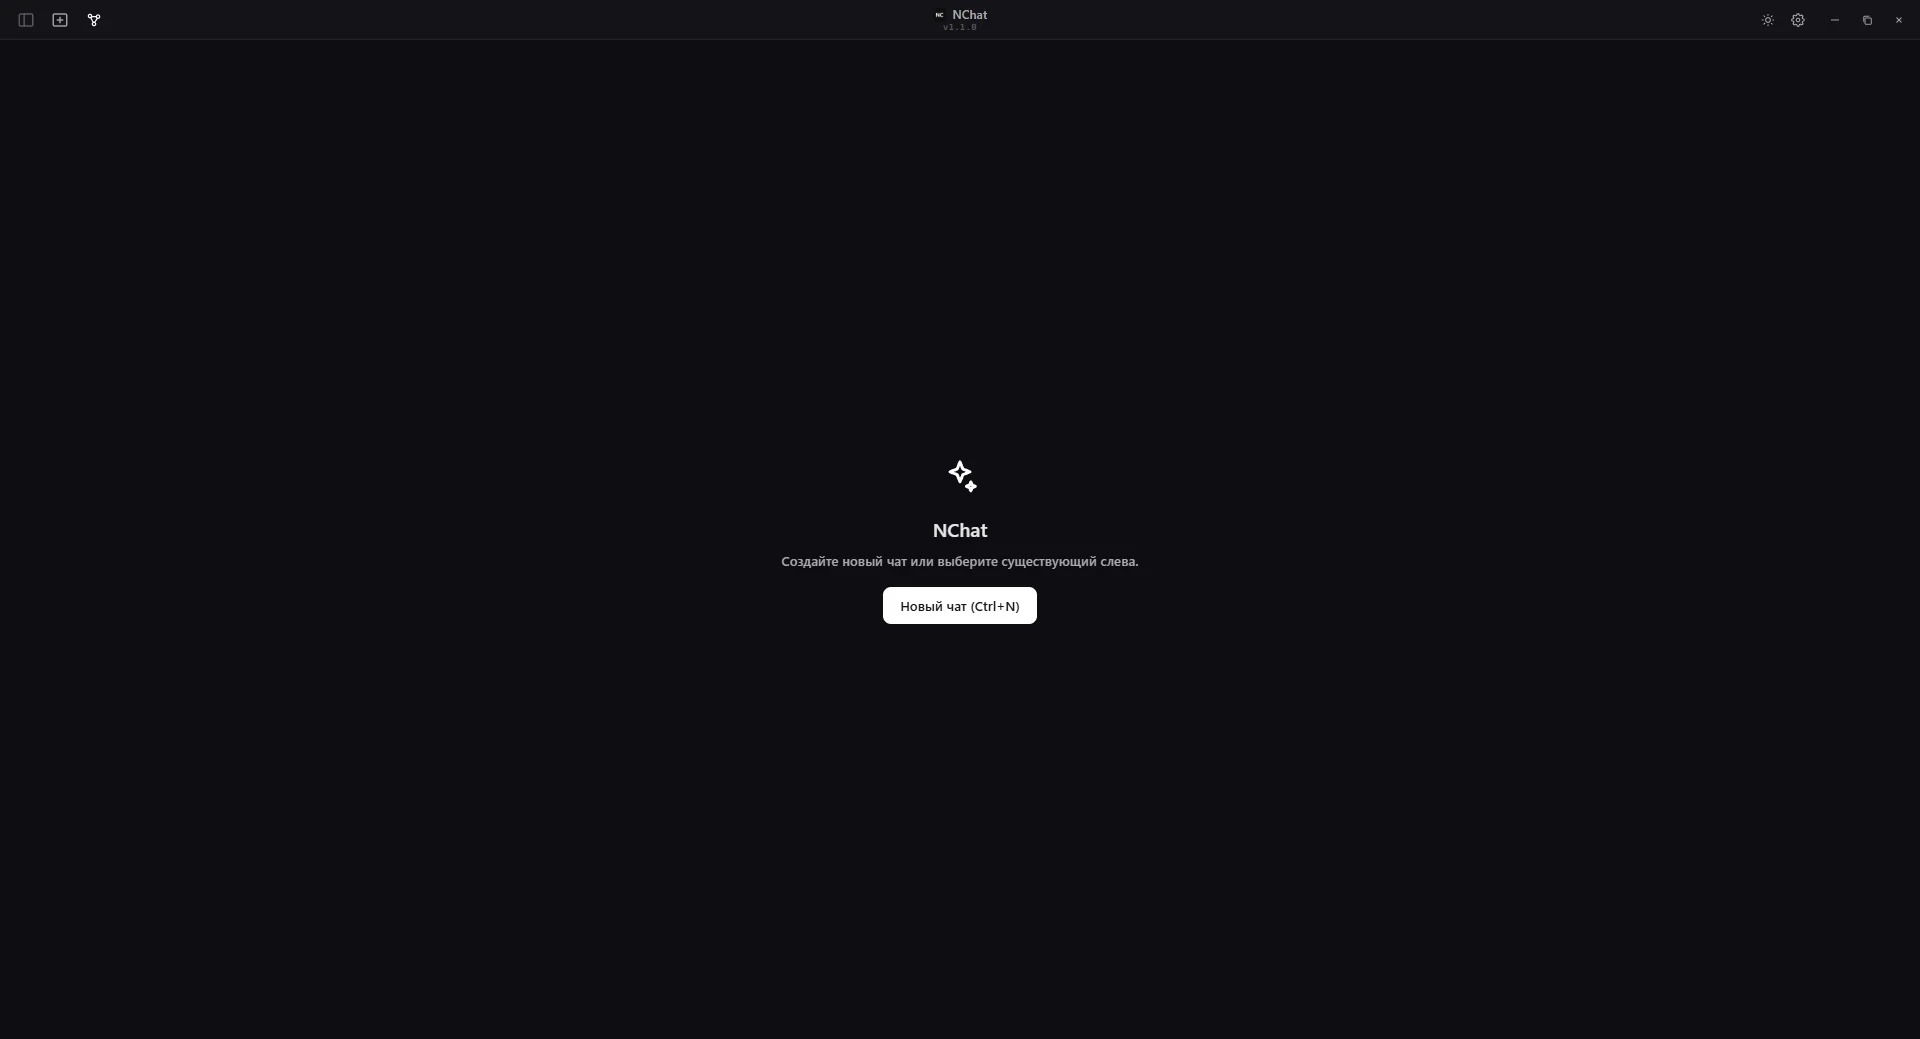
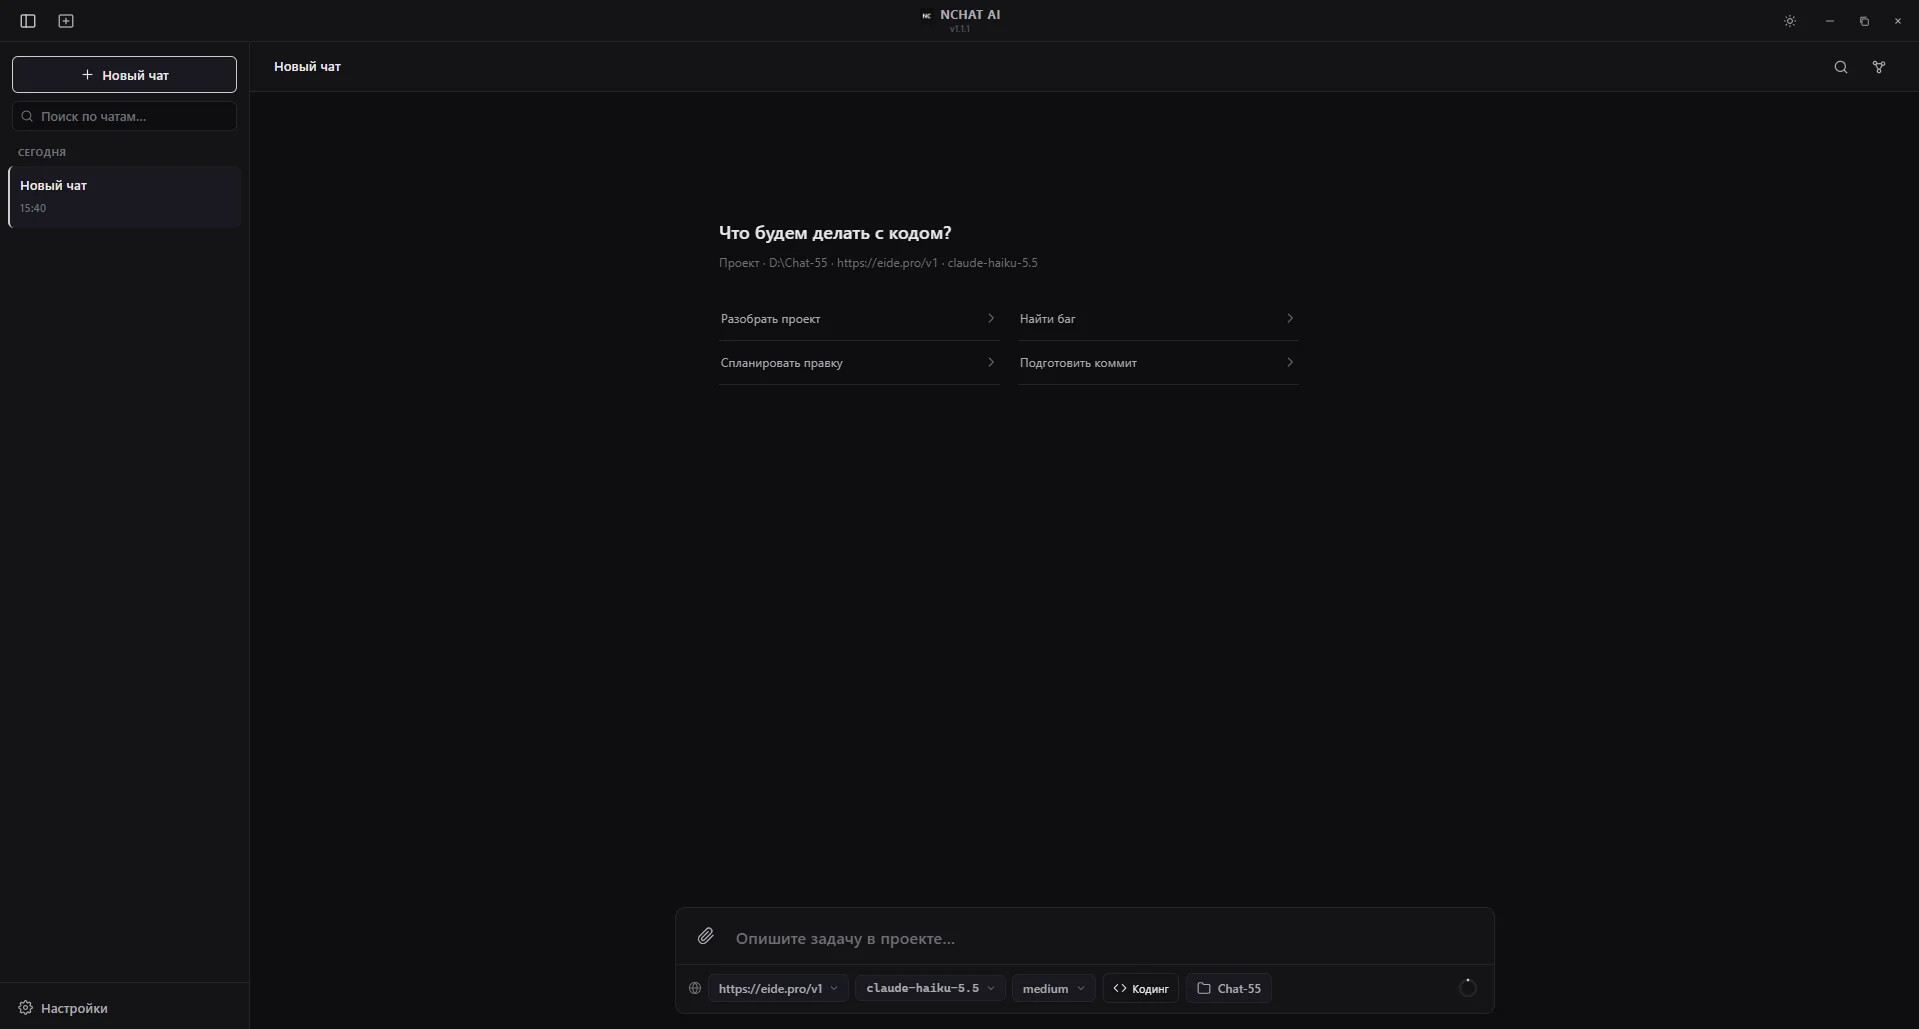
Новый скриншот главного окна (main.jpg, v=111)

diff --git a/index.html b/index.html
@@ -17,11 +17,11 @@
   <meta property="og:title" content="NChat AI — ИИ-чат для Windows с доступом к файлам, git и MCP" />
   <meta property="og:description" content="Бесплатное приложение для Windows: файлы, оболочка, git, MCP-серверы и параллельные чаты с языковыми моделями в одном окне." />
   <meta property="og:url" content="https://uzuqween.github.io/nchat-site/" />
-  <meta property="og:image" content="https://uzuqween.github.io/nchat-site/assets/main.jpg?v=110" />
+  <meta property="og:image" content="https://uzuqween.github.io/nchat-site/assets/main.jpg?v=111" />
   <meta property="og:locale" content="ru_RU" />
   <meta name="twitter:card" content="summary_large_image" />
   <script type="application/ld+json">
-  {"@context":"https://schema.org","@type":"SoftwareApplication","name":"NChat","alternateName":["NChat AI","NeuralChat"],"downloadUrl":"https://github.com/uzuqween/nchat-site/releases/latest/download/NChat.exe","sameAs":["https://github.com/uzuqween/nchat-site","https://t.me/NChat_AI"],"operatingSystem":"Windows","applicationCategory":"DeveloperApplication","inLanguage":["ru","en"],"isAccessibleForFree":true,"description":"Настольный ИИ-чат: файлы, оболочка, git, MCP-серверы и параллельные чаты в одном окне.","url":"https://uzuqween.github.io/nchat-site/","image":"https://uzuqween.github.io/nchat-site/assets/main.jpg?v=110","offers":{"@type":"Offer","price":"0","priceCurrency":"RUB"}}
+  {"@context":"https://schema.org","@type":"SoftwareApplication","name":"NChat","alternateName":["NChat AI","NeuralChat"],"downloadUrl":"https://github.com/uzuqween/nchat-site/releases/latest/download/NChat.exe","sameAs":["https://github.com/uzuqween/nchat-site","https://t.me/NChat_AI"],"operatingSystem":"Windows","applicationCategory":"DeveloperApplication","inLanguage":["ru","en"],"isAccessibleForFree":true,"description":"Настольный ИИ-чат: файлы, оболочка, git, MCP-серверы и параллельные чаты в одном окне.","url":"https://uzuqween.github.io/nchat-site/","image":"https://uzuqween.github.io/nchat-site/assets/main.jpg?v=111","offers":{"@type":"Offer","price":"0","priceCurrency":"RUB"}}
   </script>
   <script type="application/ld+json">
   {"@context":"https://schema.org","@type":"WebSite","name":"NChat","alternateName":["NChat AI","NeuralChat","NChat (NeuralChat)"],"url":"https://uzuqween.github.io/nchat-site/"}
@@ -85,7 +85,7 @@
         </div>
 
         <div class="hero-preview" id="hero-preview">
-          <img src="assets/main.jpg?v=110" alt="Главное окно NChat" loading="lazy" />
+          <img src="assets/main.jpg?v=111" alt="Главное окно NChat" loading="lazy" />
         </div>
       </div>
     </section>

diff --git a/en/index.html b/en/index.html
@@ -16,11 +16,11 @@
   <meta property="og:title" content="NChat AI — free AI chat for Windows with file, shell, git and MCP access" />
   <meta property="og:description" content="Free portable Windows app: files, shell, git, MCP servers and parallel chats with language models in one window." />
   <meta property="og:url" content="https://uzuqween.github.io/nchat-site/en/" />
-  <meta property="og:image" content="https://uzuqween.github.io/nchat-site/assets/main.jpg?v=110" />
+  <meta property="og:image" content="https://uzuqween.github.io/nchat-site/assets/main.jpg?v=111" />
   <meta property="og:locale" content="en_US" />
   <meta name="twitter:card" content="summary_large_image" />
   <script type="application/ld+json">
-  {"@context":"https://schema.org","@type":"SoftwareApplication","name":"NChat","alternateName":["NChat AI","NeuralChat"],"downloadUrl":"https://github.com/uzuqween/nchat-site/releases/latest/download/NChat.exe","sameAs":["https://github.com/uzuqween/nchat-site","https://t.me/NChat_AI"],"operatingSystem":"Windows","applicationCategory":"DeveloperApplication","inLanguage":["ru","en"],"isAccessibleForFree":true,"description":"Desktop AI chat for Windows: files, shell, git, MCP servers and parallel chats in one window.","url":"https://uzuqween.github.io/nchat-site/en/","image":"https://uzuqween.github.io/nchat-site/assets/main.jpg?v=110","offers":{"@type":"Offer","price":"0","priceCurrency":"USD"}}
+  {"@context":"https://schema.org","@type":"SoftwareApplication","name":"NChat","alternateName":["NChat AI","NeuralChat"],"downloadUrl":"https://github.com/uzuqween/nchat-site/releases/latest/download/NChat.exe","sameAs":["https://github.com/uzuqween/nchat-site","https://t.me/NChat_AI"],"operatingSystem":"Windows","applicationCategory":"DeveloperApplication","inLanguage":["ru","en"],"isAccessibleForFree":true,"description":"Desktop AI chat for Windows: files, shell, git, MCP servers and parallel chats in one window.","url":"https://uzuqween.github.io/nchat-site/en/","image":"https://uzuqween.github.io/nchat-site/assets/main.jpg?v=111","offers":{"@type":"Offer","price":"0","priceCurrency":"USD"}}
   </script>
   <link rel="icon" href="../assets/icon.svg" type="image/svg+xml" />
   <link rel="preconnect" href="https://fonts.googleapis.com" />
@@ -80,7 +80,7 @@
         </div>
 
         <div class="hero-preview" id="hero-preview">
-          <img src="../assets/main.jpg?v=110" alt="NChat AI main window" loading="lazy" />
+          <img src="../assets/main.jpg?v=111" alt="NChat AI main window" loading="lazy" />
         </div>
       </div>
     </section>
